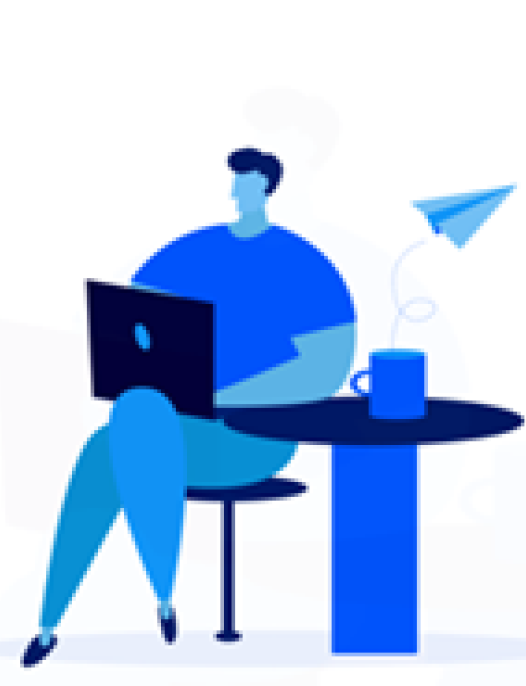
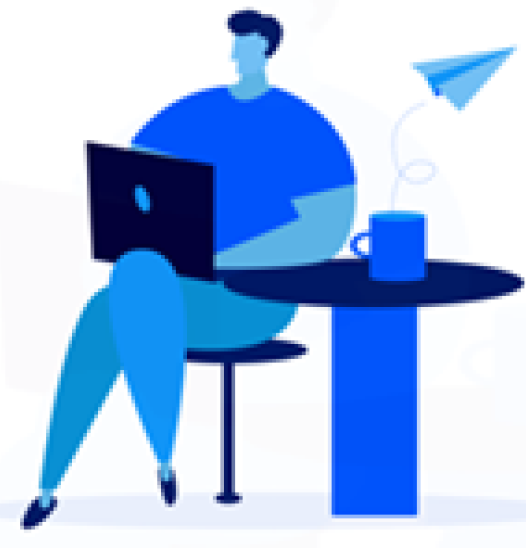
Responsiveness

diff --git a/templates/auth.html b/templates/auth.html
@@ -19,14 +19,14 @@
       </div>
    </div>
    <div class="row" id='second_row'>
-      <div class="col-sm-5 col-sm-offset-0 col-md-3 col-md-offset-0 col-xs-11 col-xs-offset-0" id="tagline">
-         <p><strong style="font-size:30px;vertical-align:middle;">Organize your work to get a job with</strong><img src={% static "image/logo.png" %} alt="worktojob logo" style="margin-left:5px;vertical-align: middle;"></p>
+      <div class="col-sm-5 col-sm-offset-0 col-md-3 col-md-offset-0 col-xs-11 col-xs-offset-0" id="tagline" style="">
+         <p><strong style="font-size:25px;vertical-align:middle;">Organize your work to get a job with</strong><img src={% static "image/logo.png" %} alt="worktojob logo" style="margin-left:5px;vertical-align: middle;"></p>
          WorktoJob is the most powerful workspace for a job seeker
       </div>
-      <div class="col-md-3 col-md-offset-4  hidden-xs hidden-sm" id="working_man_pic">
+      <div class="col-md-2 col-md-offset-2  hidden-xs hidden-sm" id="working_man_pic">
          <img src={% static "image/man_with_laptop.png" %} style="max-width:100%;min-width:100%;">
       </div>
-   <div class = "col-md-4 col-md-offset-7 col-lg-3 col-lg-offset-7 col-xs-11 col-xs-offset-0 col-sm-5 col-sm-offset-6" style="padding: 0px;" id="sign_inform">
+   <div class = "col-md-3 col-md-offset-2 col-xs-11 col-xs-offset-0 col-sm-5 col-sm-offset-1" style="padding: 0px;" id="sign_inform">
    <div class = "panel panel-login">
    <div class = "panel-heading">
       <div class = "row">

diff --git a/static/css/login.css b/static/css/login.css
@@ -4,29 +4,32 @@ body {
 
 #login_container{
 	margin: 0px;
-	padding-left:15px;
-	padding-right:5px;
+	padding:15px;
+	width: 100%;
 }
 
 #logo{
-position: absolute;
-top:32px;
+
 /*left:34px;
 */}
 
 #tagline{
-	/*padding:15px;*/
-	position: absolute;
-	top:150px;
-	/*left: 34px;*/
-	/*width: 20%;
-	float: left;*/
+	padding-top:65px;
+	
 }
+#first_row{
+	margin:15px 0px;
+}
+ #second_row{
+ 	margin:15px 0px;
+ 	align-items: center;
+ }
 
 #working_man_pic{
-	position: absolute;
-	top:150px;
+	padding-top:65px;
 }
+
+
 /*#sign_inform{
 	position: absolute;
 	top:150px;
@@ -181,39 +184,42 @@ span.buttonText {
 
 @media(min-width: 992px){
 
- #sign_inform{
+/* #sign_inform{
   	position: absolute;
   	top:150px;
   	
   }	
-
-  #second_row, #first_row{
+*/
+ /* #second_row, #first_row{
  	margin: 0px;
- }
+ }*/
 }
 
 
   /* medium devices like tablets*/
 @media(max-width:769px){
-	#sign_inform{
+	/*#sign_inform{
 		position: absolute;
 		top:150px;
 	}
+*/
 
-
- #second_row, #first_row{
+ /*#second_row, #first_row{
  	margin: 0px;
- }
+ }*/
 }
 
 
 /*extra small*/
 @media(max-width:576px){
   #tagline{
-  	top:120px;
+  	margin-bottom:30px;
+
+	padding-top:15px;
+	
+
   }
   #sign_inform{
-  	position: absolute;
-  	top:340px;
+  	margin-bottom:10px;
   }
 }
